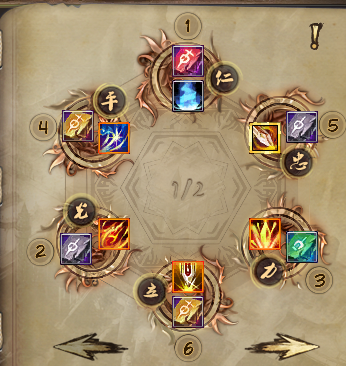
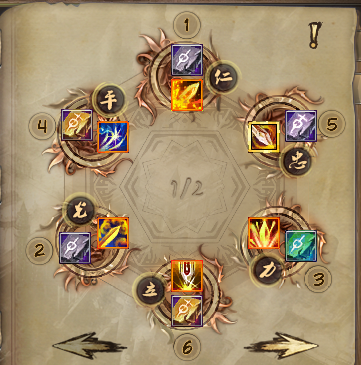
2025-08-30

diff --git a/index-03-2025.html b/index-03-2025.html
@@ -5,16 +5,8 @@
     <meta name="viewport" content="width=device-width, initial-scale=1.0">
     <title>Страж</title>
 </head>
-<style>
-    .new {
-        color: red;
-    }
-</style>
 <body>
-
-<p><span class="new">Красным</span> помечены изменения.</p>
-
-<p>Гайд был написан <span class="new">в августе (было - в марте)</span> 2025 года.</p>
+<p>Гайд был написан в марте 2025 года.</p>
 
 <h1>Гайд по стражу</h1>
 
@@ -45,8 +37,6 @@
 
 <p>Рекомендую выставить на панель основную и ПЗ-пуху, чтобы по кнопкам их быстро переключать.</p>
 
-<p class="new">Новое: В ХХ 4-1 на первом боссе лучше кидать запал под иммункой, чтобы мистик его не рассеял.</p>
-
 <p>Затем баффаемся "Великим сиянием меча" для 85% пения. <img src="img/siyaniye.PNG"></p>
 
 <p>Затем используем последовательно:</p>
@@ -59,7 +49,7 @@
 
 <p>В "Великий закалённый меч" - сапфировую руну, чтобы порезать физ. деф.</p>
 
-<p>В "Великое невидимое лезвие" - золотую руну, <span class="new">чтобы временно существенно повысить урон в PvE (было: чтобы шанс крита был 100%).</span></p>
+<p>В "Великое невидимое лезвие" - золотую руну, чтобы шанс крита был 100%.</p>
 
 <p>В "Пань Гу - Великий меч-ветрогон" - серебряную руну, чтобы была большая порезка ПЗ у босса.</p>
 
@@ -71,43 +61,37 @@
 
 <h2>Макросы и прочие руны</h2>
 
-<p>Макросов делаем <span class="new">два (было - 3)</span>: один обычный (основной), для общего применения (1):</p>
+<p>Макросов делаем несколько: один обычный (основной), для общего применения (1):</p>
 
 <p><img src="img/macros-1.PNG"></p>
 
-<p><span class="new">Новое: Для физ. иммунов и ситуаций, где нужно много бить массом (2):</span></p>
+<p>Для маг. иммунов (2):</p>
 
 <p><img src="img/macros-2.PNG"></p>
 
-<p><span class="new">Новое: Разбор всех скиллов с рунами:</span></p>
+<p>Для физ. иммунов (3):</p>
+
+<p><img src="img/macros-3.PNG"></p>
+
+<p>Также замечу, что в стандартных бьющих скиллах:</p>
+
+<img src="img/skill-1.PNG">, <img src="img/skill-2.PNG">, <img src="img/vetrogon.PNG"> можно менять тип урона с маг. на физ. и наоборот, если вставить рубиновую руну.
+
+<p>А вот, как я расставил руны:</p>
 
 <p><img src="img/glyphs-1.PNG"></p>
 
-<ol>
-    <li>"Великий удар пустоты" <img src="img/ud-pust.png"> используем, когда идём в великий УФ и льём в конце колонны феникса. Вариант с серебряной руной максимально удобен, потому что скилл не промахивается и массит.</li>
-    <li>"Великую силу тысячи зверей" <img src="img/vel-sil-tis-zve.png"> можно использовать в башне на высоких этажах вместе с "Великим сиянием меча" <img src="img/siyaniye.PNG"> и после "Великого закалённого меча" <img src="img/zakal-mech.PNG"> (для порезки физ. защиты) на этаже, где нужно слить 100 мобов. Вариант с серебряной руной хорош тем, что гарантированно попадает в цель и замедляет мобов.</li>
-    <li>"Великую мощь яростного медведя" <img src="img/yar-medv.PNG"> с изумрудной руной хорошо использовать в ПП на 2 боссе. Когда босс кастует "падающие клинки", можно сбивать ему их.</li>
-    <li>"Великое невидимое лезвие" <img src="img/lezvie.PNG"> с золотой руной позволяет "в моменте" увеличить дамаг по мобам, как я писал выше.</li>
-    <li>"Пань Гу - Великий меч-ветрогон" <img src="img/vetrogon.PNG"> с серебряной руной позволяет дополнительно снижать ПЗ на 20 единиц.</li>
-    <li>"Великое сияние меча" <img src="img/siyaniye.PNG"> даёт 85% пения. А с 8 или 9 золотой руной - ещё и 90%-й шанс избежать негативных эффектов (как у ПТП синов).</li>
-</ol>
-
 <p><img src="img/glyphs-2.PNG"></p>
 
-<ol>
-    <li>"Великая воронка лезвий" <img src="img/voronka.png"> (она же "карусель") с серебряной руной - не промахивается. Но можно поставить и золотую, если нужно немного больше урона (у меня пока что нет лишней золотой руны). С сапфировой руной "карусель" можно применять в движении, но действовать она будет всего до 20 секунд. В последнем варианте также, в течение этих 20 секунд, на персонажа не действуют негативные эффекты.</li>
-    <li>"Городской портал" <img src="img/portal.png"> с рубиновой руной может быть удобен для ЛА, где им можно выходить в начало данжа к NPC с наградой. Рубиновая руна даёт иммунитет ко снятию каста.</li>
-    <li>"Великий кровавый меч" <img src="img/krovaviy-mech.PNG"> с серебряной руной отхиливает 35% ХП. Довольно ценный дополнительный хил.</li>
-    <li>"Великий закалённый меч" </li>
-    <li></li>
-    <li></li>
-</ol>
+<p>Можно поменять руны в "Великом мече огненного духа" <img src="img/ogn-duh.PNG"> и "Великом мече костоломе" <img src="img/skill-1.PNG">:</p>
+
+<p><img src="img/glyphs-3.PNG"></p>
+
+<p>Тогда будет урон ещё выше по обычным мобам, но "Великий меч костолом" <img src="img/skill-1.PNG">, но тогда не все скиллы в макросе (3) будут бить магией, что немного лишает универсальности.</p>
 
 <h2>Таинственная транспозиция</h2>
 
 <p>Отдельно отмечу таинственную транспозицию <img src="img/transp.PNG">, которая позволяет перетянуть к себе другого персонажа. Для её использования кидаем дуэль, затем применяем транспозицию, меняя местами персонажей, а затем - "Великий меч императора" <img src="img/mech-imp.PNG">, чтобы притянуться самому.</p>
-
-<h2>Джинн</h2>
 
 <h2>Хилы</h2>
 
@@ -147,6 +131,8 @@
     <li>Парные мечи: выше дамаг, но иконка будет та же, что и у ПА-пухи, что может быть неудобно.</li>
     <li>Одиночный меч: соответственно, дамаг ниже, но иконки разные, что позволяет лучше ориентироваться.</li>
 </ul>
+
+<p>Также отмечу, что грядёт обнова, в которой очень сильно увеличат дамажную ценность 80 ПА домопухи, так что лучше не спешить тратить деньги на 80 ПЗ, а подкопить ресурсы.</p>
 
 </body>
 </html>
